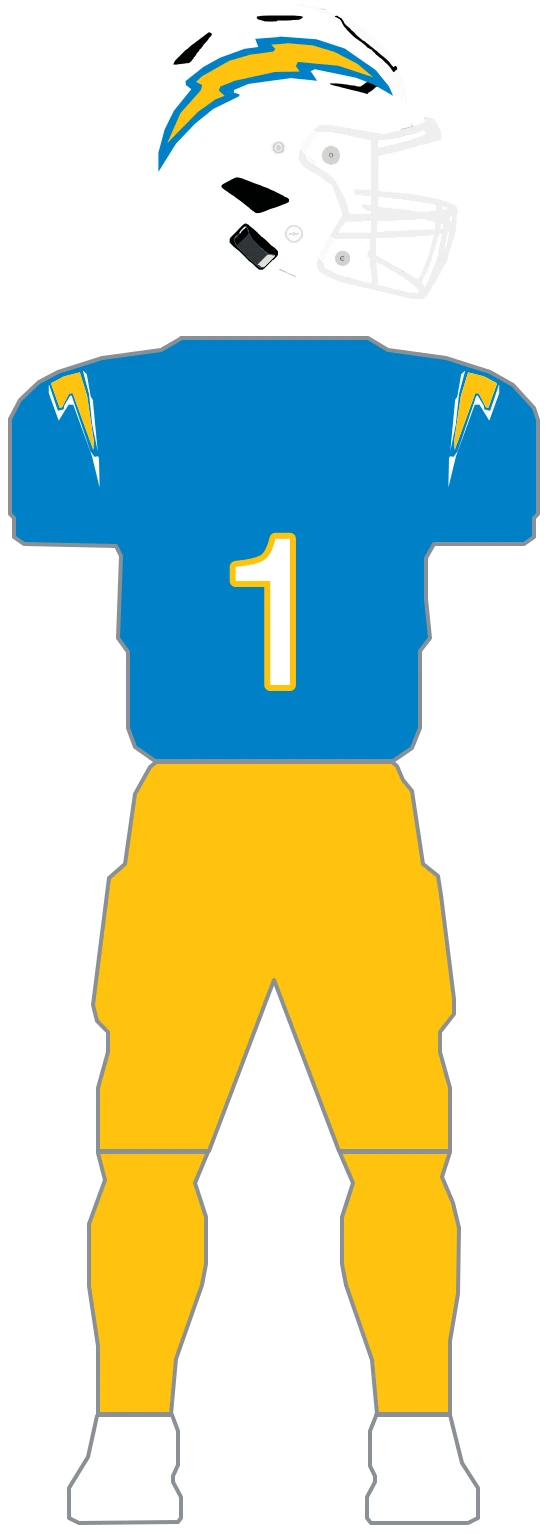
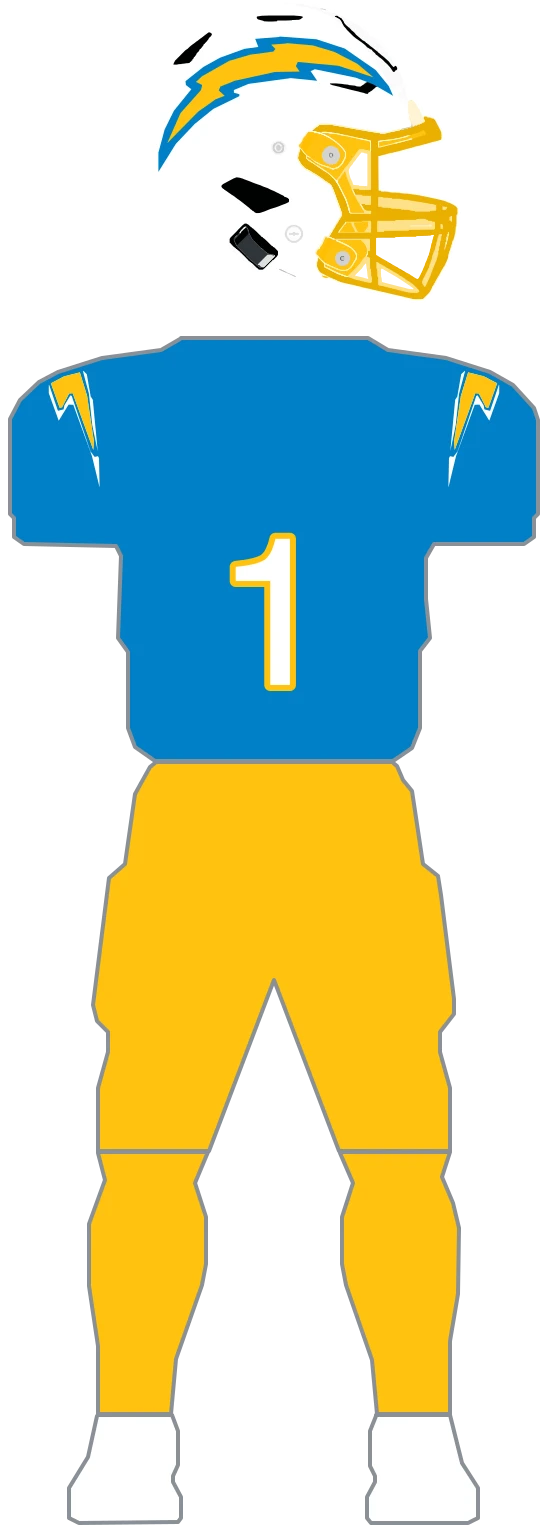
fix(uniforms): correct Chargers helmet and pants options (#721)

Changed region(s): [[0.5161, 0.0612, 0.8196, 0.2143]]

diff --git a/lib/uniforms/teams/chargers.parts.ts b/lib/uniforms/teams/chargers.parts.ts
@@ -65,11 +65,11 @@ function decal(keyline: string, body: string): PartLayer[] {
 
 // The white shell with the bolt — one object, shared by all three kits.
 //
-// White cage. The white Chargers shell wears a white facemask (named sources; white-on-white
-// matches the shell).
+// Gold cage, sampled from the Chargers' 2025 GUD composite (nfl-uniform-refs/chargers); the
+// reference helmet consistently shows the facemask in the team's lightning-bolt gold.
 const HELMET_WHITE: UniformPart = {
   base: 'white',
-  facemask: 'white',
+  facemask: 'gold',
   layers: decal('powderBlue', 'gold'),
 };
 
@@ -88,8 +88,13 @@ const JERSEY_WHITE: UniformPart = {
   number: { fill: 'powderBlue', outline: 'gold', outlineWidth: 12 },
 };
 
-// Gold pants, shared by all three kits (the pants sample as unbroken gold on both figures).
+// The 2025 GUD composite shows gold, white, powder-blue, and navy pants. Gold is canonical for
+// every current Chargers kit, preserving the existing raster; the other colors remain available
+// data until the archive UI presents pant options.
 const PANTS_GOLD: UniformPart = { base: 'gold', layers: [] };
+const PANTS_WHITE: UniformPart = { base: 'white', layers: [] };
+const PANTS_POWDER: UniformPart = { base: 'powderBlue', layers: [] };
+const PANTS_NAVY: UniformPart = { base: 'navy', layers: [] };
 
 export const CHARGERS_PARTS: TeamPartsDefinition = {
   teamId: 'chargers',
@@ -99,17 +104,28 @@ export const CHARGERS_PARTS: TeamPartsDefinition = {
     powderBlue: '#0080C6',
     gold: '#FFC20E',
     white: '#FFFFFF',
+    // Navy pants sampled from the GUD 2025 composite (nfl-uniform-refs/chargers).
+    navy: '#002244',
   },
   helmets: { white: HELMET_WHITE },
   jerseys: {
     powder: JERSEY_POWDER,
     white: JERSEY_WHITE,
   },
-  pants: { gold: PANTS_GOLD },
+  pants: {
+    gold: PANTS_GOLD,
+    white: PANTS_WHITE,
+    powder: PANTS_POWDER,
+    navy: PANTS_NAVY,
+  },
   kits: {
-    home: { helmet: 'white', jersey: 'powder', pants: 'gold' },
-    away: { helmet: 'white', jersey: 'white', pants: 'gold' },
-    'powder-blue': { helmet: 'white', jersey: 'powder', pants: 'gold' },
+    home: { helmet: 'white', jersey: 'powder', pants: ['gold', 'white', 'powder', 'navy'] },
+    away: { helmet: 'white', jersey: 'white', pants: ['gold', 'white', 'powder', 'navy'] },
+    'powder-blue': {
+      helmet: 'white',
+      jersey: 'powder',
+      pants: ['gold', 'white', 'powder', 'navy'],
+    },
   },
 };
 

diff --git a/lib/uniforms/teams/parts.ts b/lib/uniforms/teams/parts.ts
@@ -71,7 +71,9 @@ export type PartNumberStyle = Omit<NumberStyle, 'fill' | 'outline'> & {
 export interface KitRef {
   helmet: string;
   jersey: string;
-  pants: string;
+  // Canonical first so compilation preserves the existing raster; remaining entries are the
+  // available pant options until the archive UI presents them.
+  pants: string | string[];
 }
 
 export interface TeamPartsDefinition {
@@ -136,7 +138,8 @@ export function compileParts(def: TeamPartsDefinition): TeamUniformDefinition {
   for (const [slug, ref] of Object.entries(def.kits)) {
     const helmet = lookup(def.helmets, ref.helmet, 'helmet', teamId);
     const jersey = lookup(def.jerseys, ref.jersey, 'jersey', teamId);
-    const pants = lookup(def.pants, ref.pants, 'pants', teamId);
+    const pantsId = Array.isArray(ref.pants) ? ref.pants[0] : ref.pants;
+    const pants = lookup(def.pants, pantsId, 'pants', teamId);
     const number = jersey.number;
 
     kits[slug] = {
